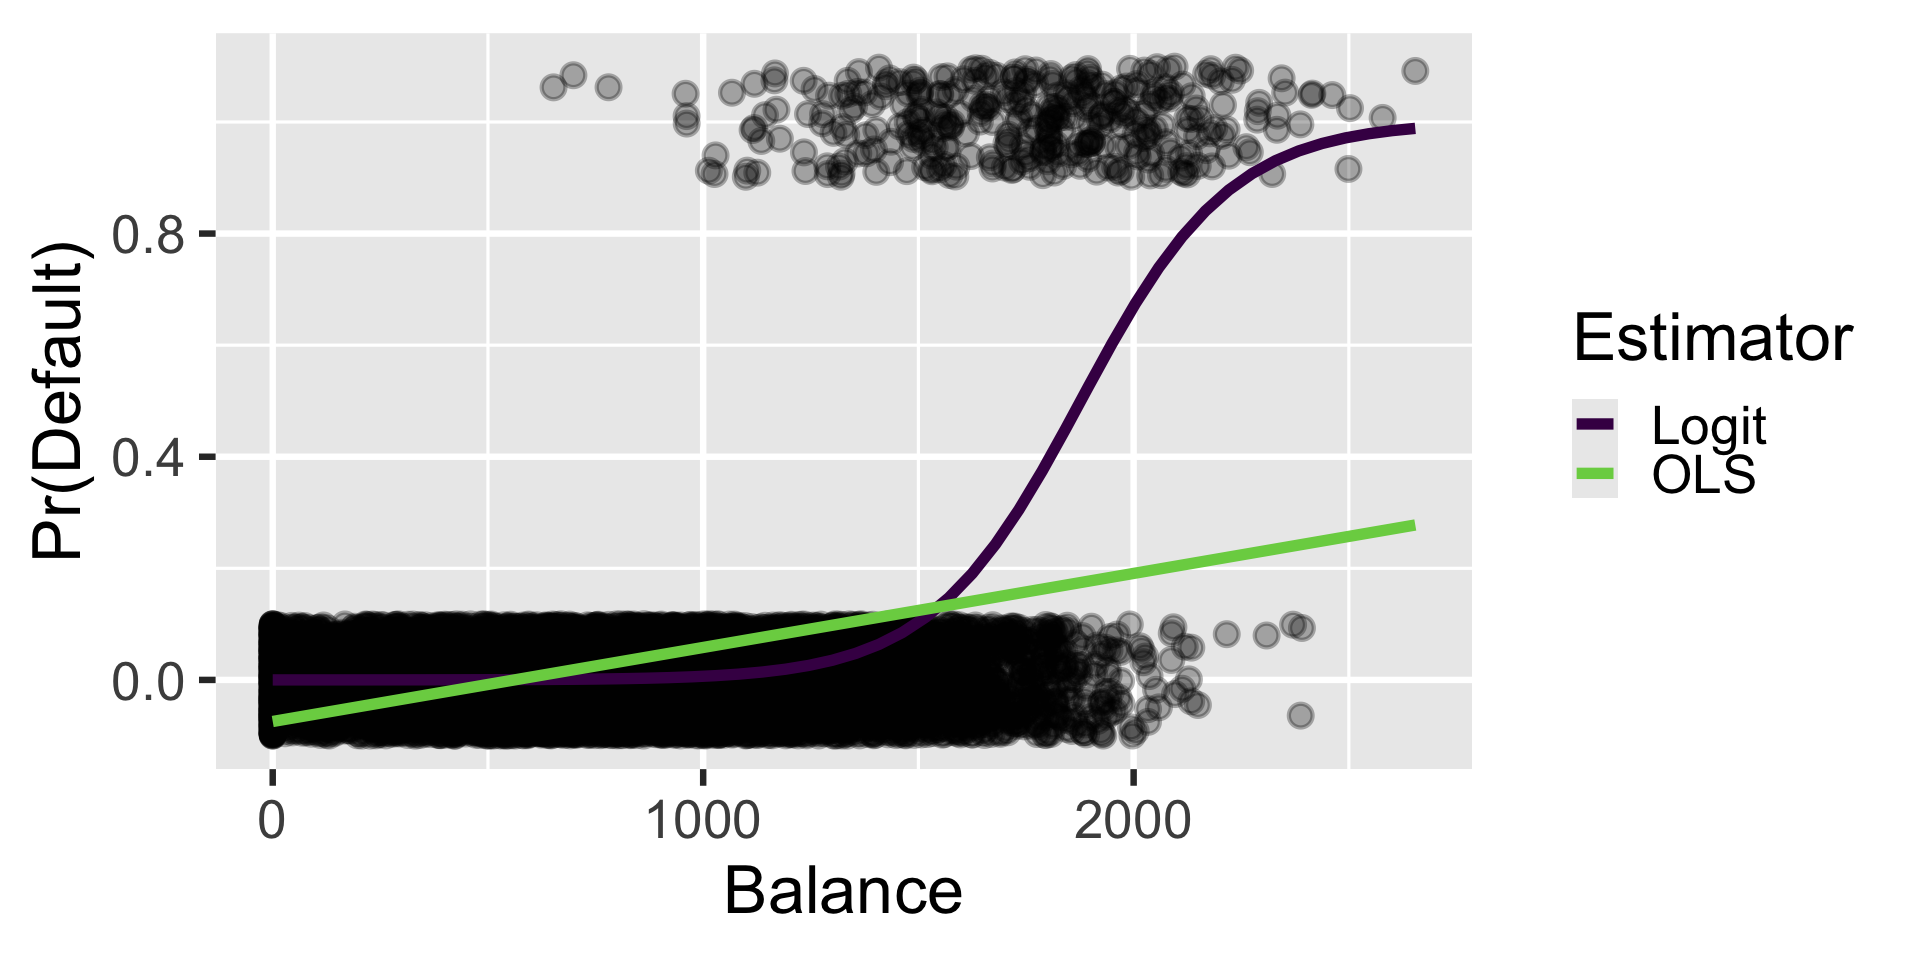
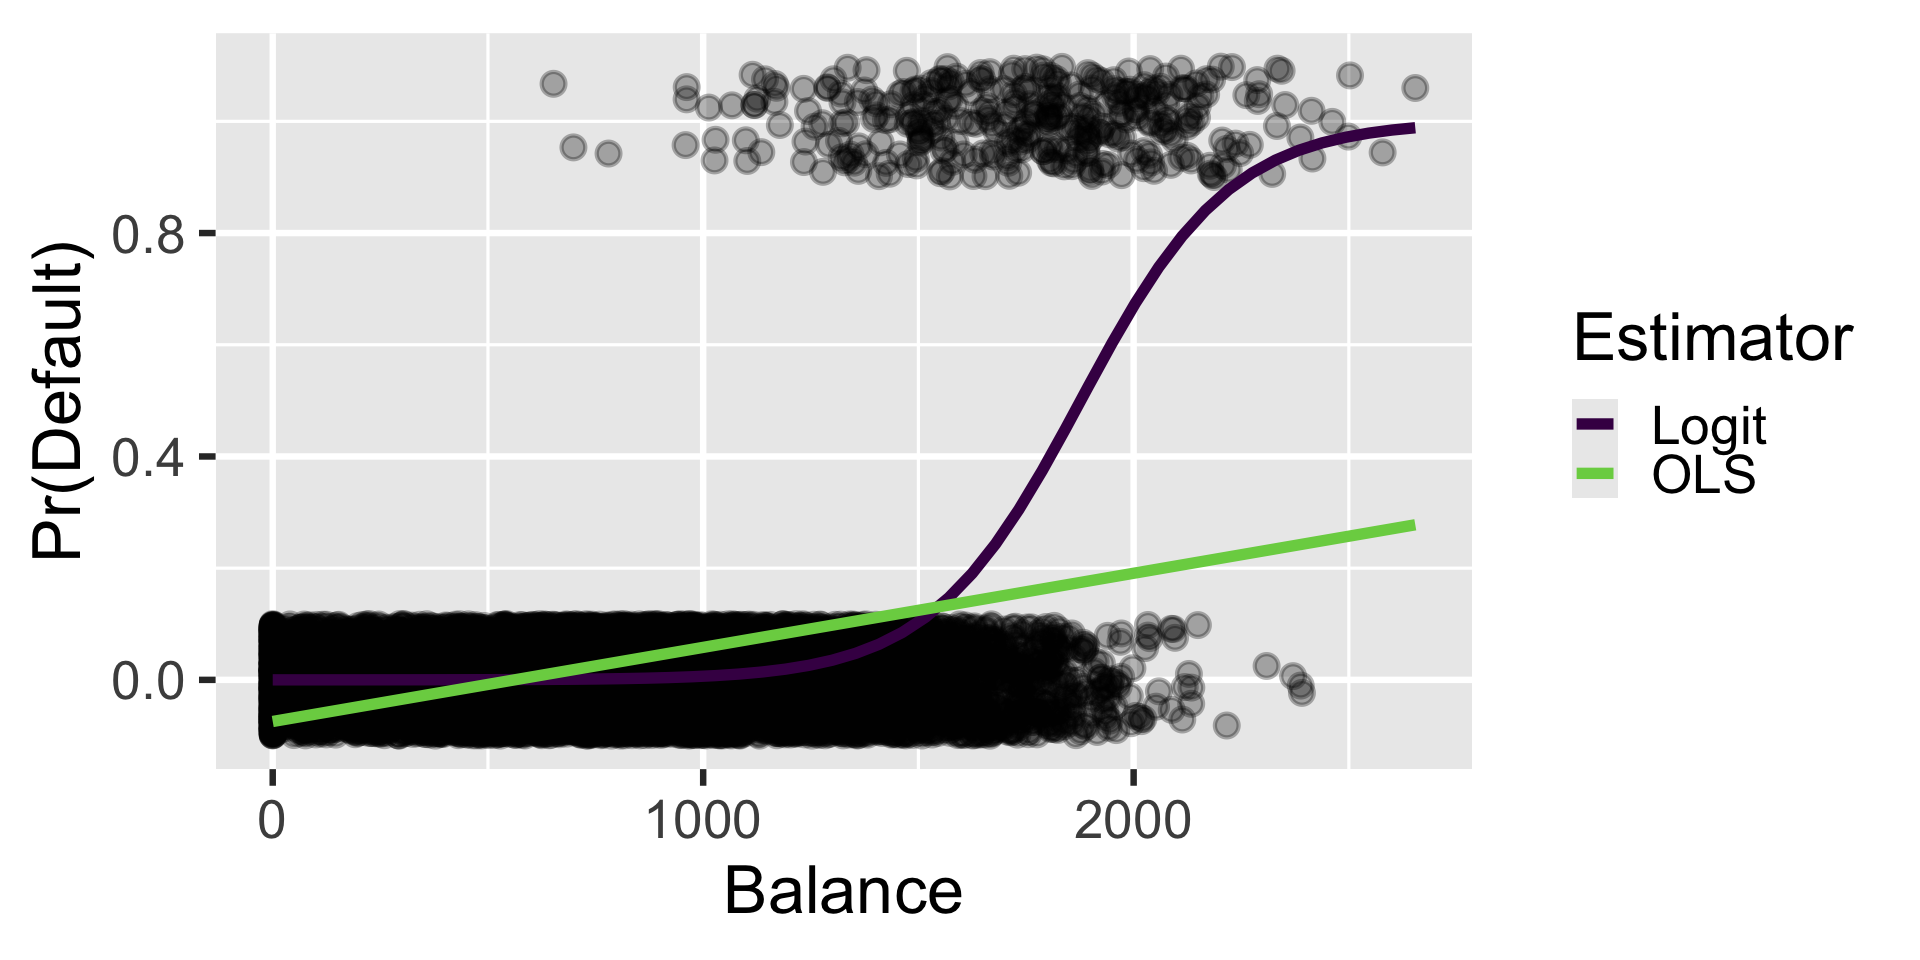
w7 slides

diff --git a/slides/week7.html b/slides/week7.html
@@ -211,7 +211,6 @@
 <li>Parametric regression</li>
 <li>Binary choice models (logistic regression)</li>
 <li>Maximum likelihood estimation</li>
-<li>Lab</li>
 </ul>
 </section>
 
@@ -446,7 +445,7 @@ log \left (\frac{p(X)}{1-p(X)} \right) = X\beta
 <section id="example-which-line-makes-observed-data-more-likely" class="slide level2">
 <h2>Example: Which line makes observed data more likely?</h2>
 
-<img data-src="https://scholar.harvard.edu/sites/scholar.harvard.edu/files/styles/os_files_xxlarge/public/ellaudet/files/the_least_squares_method_new.gif" class="r-stretch"></section>
+<img data-src="https://ellaudet.scholars.harvard.edu/sites/g/files/omnuum9971/files/styles/hwp_1_1__1440x1440_scale/public/ellaudet/files/the_least_squares_method_new.gif" class="r-stretch"></section>
 <section id="more-formally" class="slide level2">
 <h2>More formally</h2>
 <div class="fragment">
@@ -680,7 +679,7 @@ default    0    1
 <p>We said OLS was <strong>BLUE</strong></p>
 </div>
 <div class="fragment">
-<p>MLE find the <strong>MVUE</strong> instead</p>
+<p>MLE finds the <strong>MVUE</strong> instead</p>
 </div>
 </section>
 <section id="mle-finite-sample-properties-1" class="slide level2">
@@ -822,14 +821,14 @@ default    0    1
 
 </div>
 <aside><div>
-<p>See <a href="https://projects.iq.harvard.edu/files/gov2001/files/inferencep_3.pdf">here</a> for more notes on likelihood-ratio based inference</p>
+<p>See <a href="https://lbelzile.github.io/math60604a/likelihood.html#sec-liktests">here</a> for more notes on likelihood-ratio based inference</p>
 </div></aside></section>
 <section id="wrapping-up" class="slide level2">
 <h2>Wrapping up</h2>
 <ul>
 <li><p>Parametric models as alternative way to think about inference</p></li>
 <li><p>Makes more sense when i.i.d. is (really truly) untenable, but requires careful justification</p></li>
-<li><p>Estimated via MLE (alternative is <a href="https://online.stat.psu.edu/stat415/lesson/1/1.4">method of moments</a>)</p></li>
+<li><p>Estimated via MLE (alternative is <a href="https://web.stanford.edu/class/archive/cs/cs109/cs109.1218/files/student_drive/7.3.pdf">method of moments</a>)</p></li>
 <li><p>Many different opinions on how to deal with uncertainty</p></li>
 <li><p>Most people who prefer the model-based approach rely more on Bayesian statistics than MLE</p></li>
 <li><p>Overfitting, micronumerosity, etc. are still problems here</p></li>
